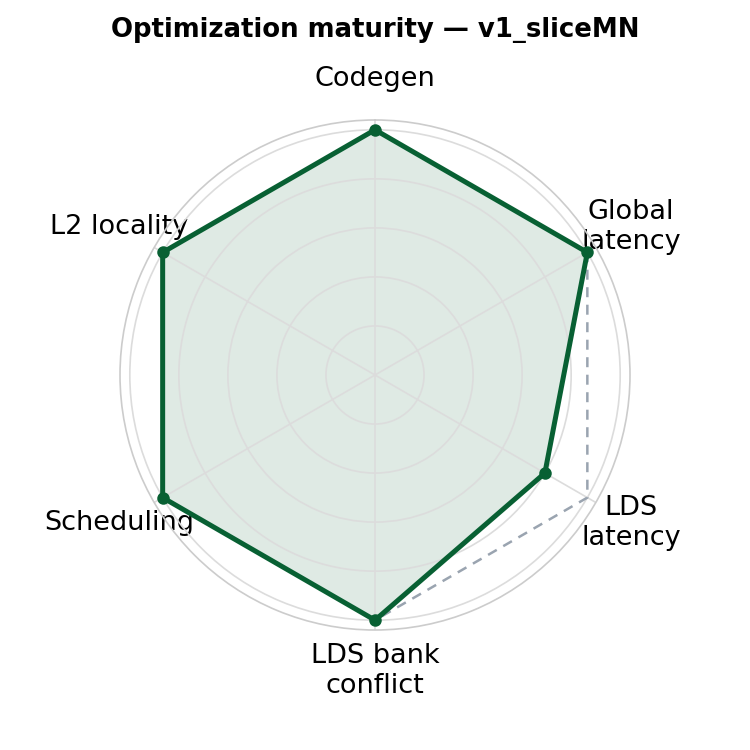
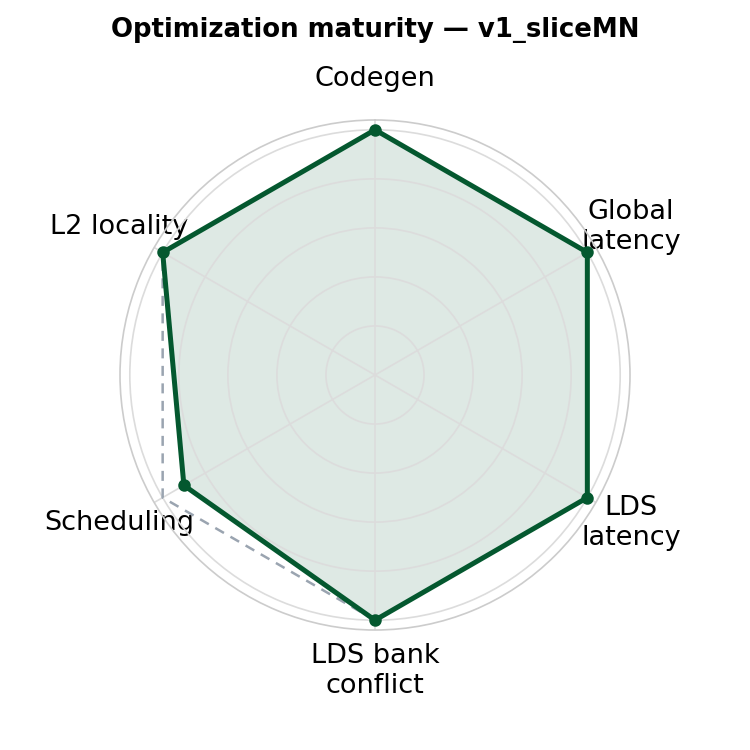
maturity radar: intra a4w4 v1_sliceMN — LDS latency 4->5, scheduling 5->4.5

Changed region(s): [[0.2147, 0.3373, 0.7973, 0.828]]

diff --git a/scripts/plot_maturity_radar.py b/scripts/plot_maturity_radar.py
@@ -79,7 +79,7 @@ SCORES = {
     # intra_wave a8w8 / a4w4 — the mature 4-wave design at BF8 / MXFP4
     "intra_wave/a8w8": [5, 5, 5, 5, 5, 5],  # a16w16 v8+v9 design at BF8 (~99.5% MFMA)
     "intra_wave/a4w4/v0_sliceN": [4, 5, 3, 4, 4, 5],  # +scale pipeline via LDS round-trip
-    "intra_wave/a4w4/v1_sliceMN": [5, 5, 4, 5, 5, 5],  # M+N slice + direct-to-LDS scales (~94%)
+    "intra_wave/a4w4/v1_sliceMN": [5, 5, 5, 5, 4.5, 5],  # M+N slice + direct-to-LDS scales (~94%)
     # inter_wave — the 8-wave warp-pipeline route
     "inter_wave/a16w16": [5, 5, 5, 5, 5, 5],  # ping-pong, ~99.8% loop MFMA
     "inter_wave/a8w8": [5, 5, 5, 5, 5, 5],  # ping-pong BF8, ~99.7%
